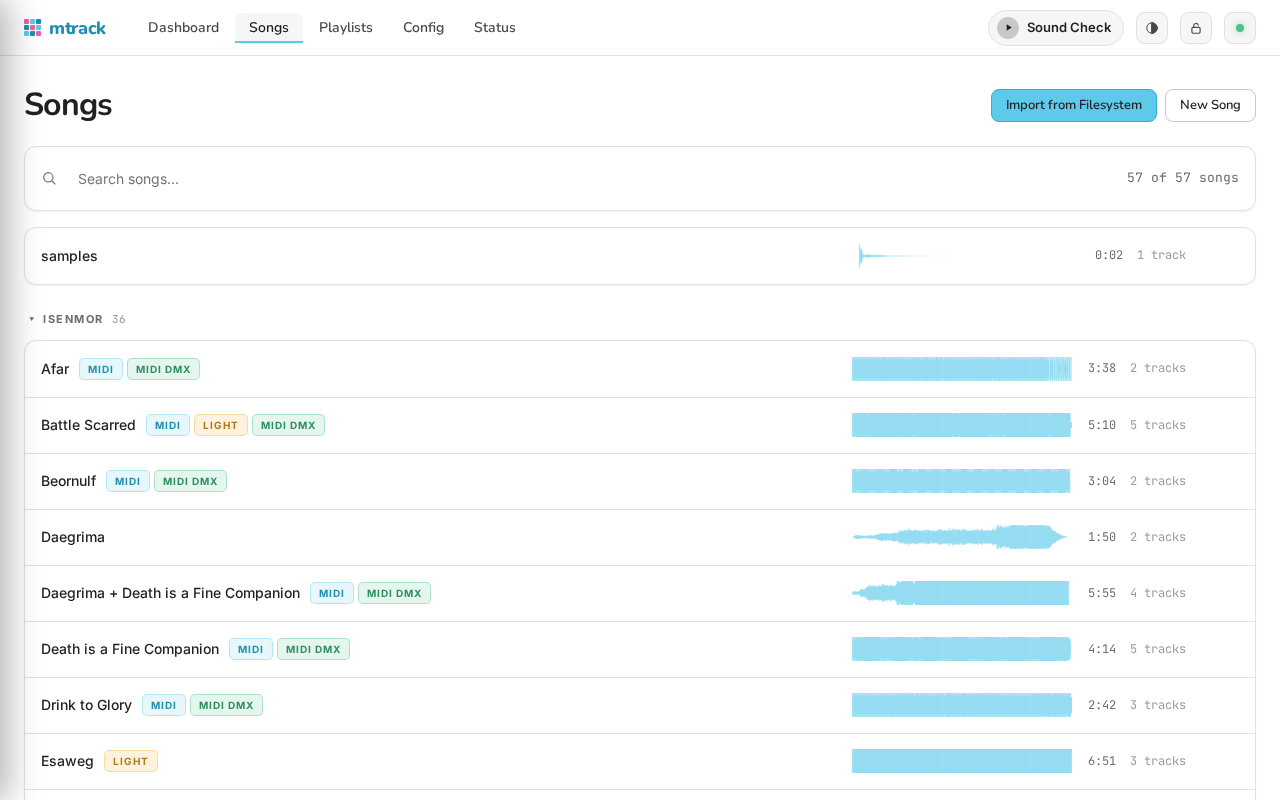
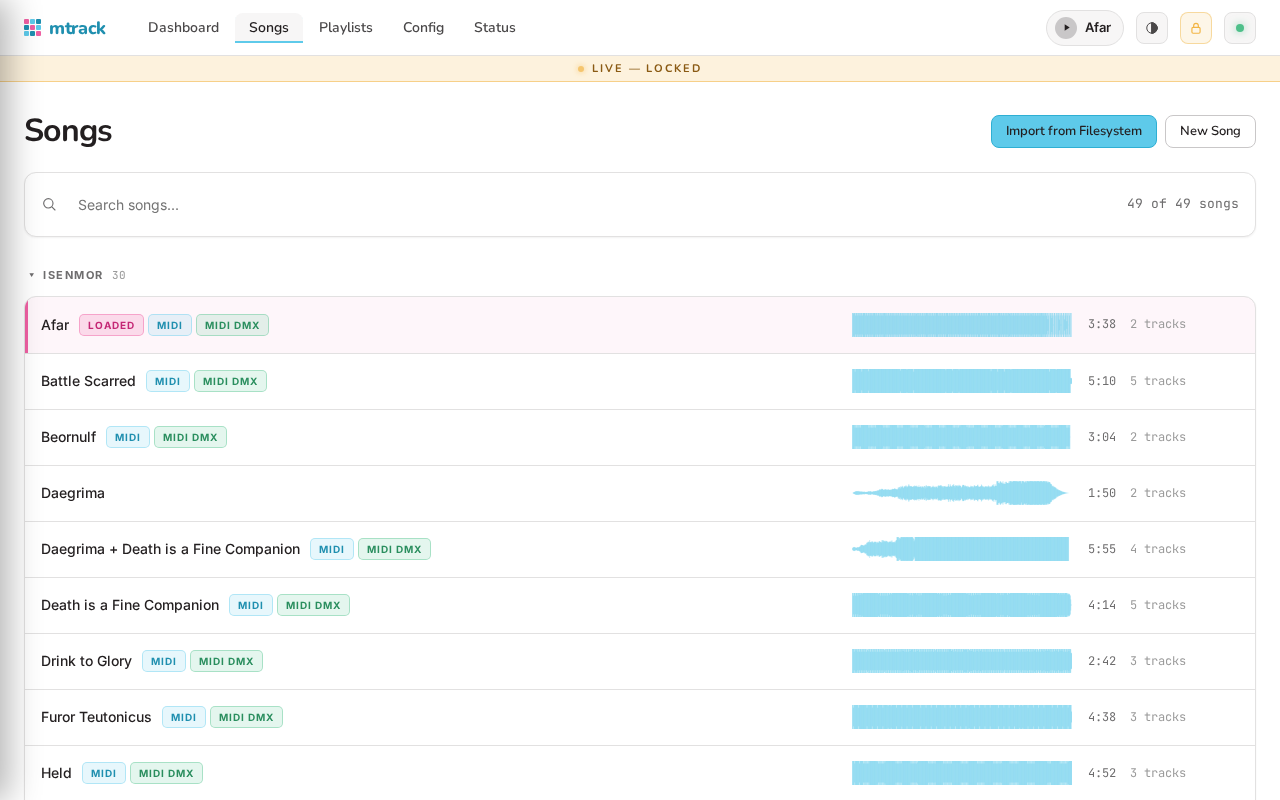
docs: regenerate all doc screenshots after the light-mode fixes (#414)
Re-runs both screenshot generators so the docs pick up the #413
light-mode timeline/metronome fixes: the 22 mock-driven shots and the
8 live-data shots (captured against a real mtrack instance running the
backing-tracks repo).

Two live-capture spec fixes were needed along the way:
- The song sections tab is now labeled "Timeline", so the song-sections
  assertion matched a stale label.
- Bulk import is a config change and a live player starts locked (the
  server answers 423), so the bulk-import-result test now unlocks via
  /api/lock for the shot and restores the lock afterwards.

Claude-Session: https://claude.ai/code/session_0153MsUL34wD3EEY7KsjAWnL

diff --git a/src/webui/svelte/e2e/screenshots/capture-live.spec.ts b/src/webui/svelte/e2e/screenshots/capture-live.spec.ts
@@ -120,7 +120,7 @@ test("song-detail", async ({ page }) => {
 test("song-sections", async ({ page }) => {
   const song = await pickSong(page, (s) => (s.sections?.length ?? 0) > 1);
   await page.goto(`/#/songs/${encodeURIComponent(song)}/sections`);
-  await expect(page.locator(".tab.active")).toContainText("Sections");
+  await expect(page.locator(".tab.active")).toContainText("Timeline");
   await page.waitForTimeout(400);
   await page.screenshot({ path: path.join(DOCS_IMAGES, "song-sections.png") });
 });
@@ -184,30 +184,38 @@ test("bulk-import-result", async ({ page }) => {
   const importPath =
     process.env.MTRACK_IMPORT_PATH ?? (await pickImportParent(page));
 
-  await page.goto("/#/songs");
-  await page.getByRole("button", { name: /import from filesystem/i }).click();
-  await expect(page.locator(".entry-list .entry").first()).toBeVisible({
-    timeout: 5000,
-  });
+  // Bulk import is a config change, and a live player starts locked
+  // (the server answers 423 while locked). Unlock for the shot, and
+  // restore the lock afterwards so the instance is left as found.
+  await page.request.put("/api/lock", { data: { locked: false } });
+  try {
+    await page.goto("/#/songs");
+    await page.getByRole("button", { name: /import from filesystem/i }).click();
+    await expect(page.locator(".entry-list .entry").first()).toBeVisible({
+      timeout: 5000,
+    });
 
-  // Type the path and hit Enter to navigate.
-  const pathInput = page.locator(".path-input");
-  await pathInput.fill(importPath);
-  await pathInput.press("Enter");
-  await expect(page.locator(".entry-list .entry.dir").first()).toBeVisible({
-    timeout: 5000,
-  });
+    // Type the path and hit Enter to navigate.
+    const pathInput = page.locator(".path-input");
+    await pathInput.fill(importPath);
+    await pathInput.press("Enter");
+    await expect(page.locator(".entry-list .entry.dir").first()).toBeVisible({
+      timeout: 5000,
+    });
 
-  // Trigger bulk import and wait for the result step.
-  await page
-    .getByRole("button", { name: /import all subdirectories/i })
-    .click();
-  await expect(page.locator(".bulk-result")).toBeVisible({ timeout: 30000 });
-  // Let the result list render fully.
-  await page.waitForTimeout(400);
-  await page.screenshot({
-    path: path.join(DOCS_IMAGES, "bulk-import-result.png"),
-  });
+    // Trigger bulk import and wait for the result step.
+    await page
+      .getByRole("button", { name: /import all subdirectories/i })
+      .click();
+    await expect(page.locator(".bulk-result")).toBeVisible({ timeout: 30000 });
+    // Let the result list render fully.
+    await page.waitForTimeout(400);
+    await page.screenshot({
+      path: path.join(DOCS_IMAGES, "bulk-import-result.png"),
+    });
+  } finally {
+    await page.request.put("/api/lock", { data: { locked: true } });
+  }
 });
 
 interface BrowseEntry {
